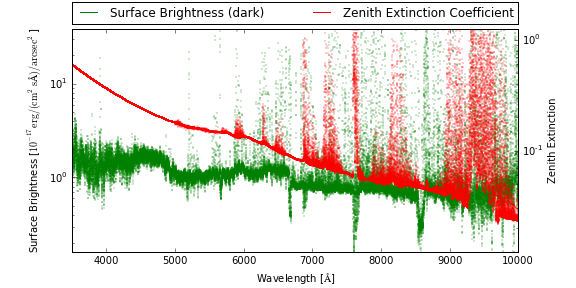
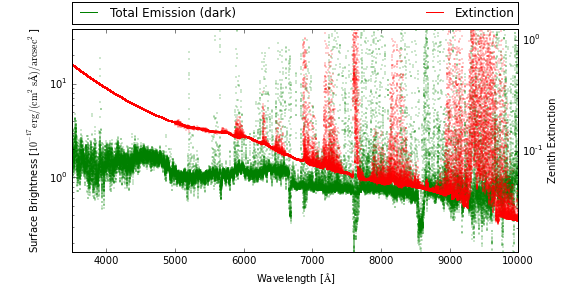
Update documentation plots

Changed region(s): [[0.5938, 0.0312, 0.9062, 0.0625], [0.1875, 0.0312, 0.4688, 0.0625]]

diff --git a/specsim/atmosphere.py b/specsim/atmosphere.py
@@ -216,9 +216,9 @@ class Atmosphere(object):
 
         ncol = 2
         ax1.plot([], [], 'g-',
-                 label='Sky ({0})'.format(self.condition))
+                 label='Total Emission ({0})'.format(self.condition))
         if self.moon is not None and self.moon.visible:
-            ax1.plot([], [], 'b-', label='Moon')
+            ax1.plot([], [], 'b-', label='Scattered Moon')
             ncol += 1
         ax1.plot([], [], 'r-', label='Extinction')
         ax1.legend(bbox_to_anchor=(0., 1.02, 1., .102), loc=3,

diff --git a/docs/config.rst b/docs/config.rst
@@ -185,6 +185,32 @@ and was created using::
 .. image:: _static/desi_atmosphere.png
     :alt: DESI default atmosphere configuration
 
+The default atmosphere has the moon below the horizon. To simulate grey or
+bright conditions, add scattered moon light by :doc:`modifying the relevant
+parameters in the configuration </api>`, or else by changing attributes of the
+initialized atmosphere model. For example::
+
+    atm = specsim.atmosphere.initialize(config)
+    atm.airmass = 1.3
+    atm.moon.moon_zenith = 60 * u.deg
+    atm.moon.separation_angle = 50 * u.deg
+    atm.moon.moon_phase = 0.25
+    atm.plot()
+
+.. image:: _static/desi_bright_atmosphere.png
+    :alt: DESI bright atmosphere configuration
+
+Note how total sky emission has increased significantly and is dominated by
+scattered moon at the blue end.  To explore the dependence of the scattered
+moon brightness on the observed field, use
+:func:`specsim.atmosphere.plot_lunar_brightness`.  For example::
+
+    specsim.atmosphere.plot_lunar_brightness(
+        moon_zenith=60*u.deg, moon_azimuth=90*u.deg, moon_phase=0.25)
+
+.. image:: _static/desi_scattered_moon.png
+    :alt: DESI scattered moon brightness
+
 Instrument
 ^^^^^^^^^^
 
@@ -218,6 +244,8 @@ and was created using::
 
 .. image:: _static/test_atmosphere.png
     :alt: Test default atmosphere configuration
+
+Note that the test atmosphere has the moon above the horizon by default.
 
 Instrument
 ^^^^^^^^^^
